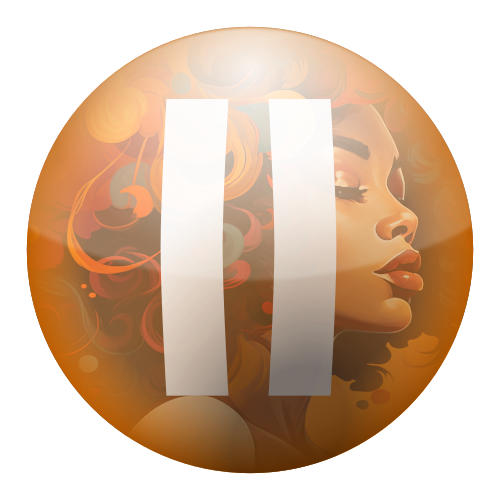
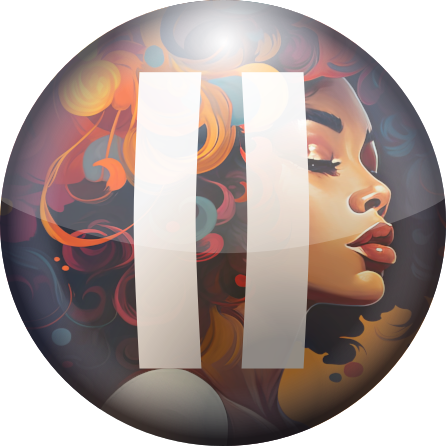
maj boutons

diff --git a/style.css b/style.css
@@ -1,7 +1,7 @@
 .proposition {
     border: 2px solid;
     border-radius: 1em;
-    width: 90%;
+    width: 50%;
     min-width: 20vw;
     text-align: center;
     padding: 5px 7px;
@@ -10,10 +10,11 @@
 }
 
 #next-question {
-    background-color: #fe952c;
+    background-color: #2b3c55;
     width: fit-content;
     border-radius: 1em;
     pad: 5px 7px;
+    color: white;
 }
 
 .hoverable:hover {
@@ -49,6 +50,11 @@
     background-repeat: no-repeat;
     /* max-width: 50vw; */
     text-align: center;
+}
+
+#illustration {
+    box-shadow: 0px 15px 20px #212030;
+    border-radius: 50%;
 }
 
 .hide {
